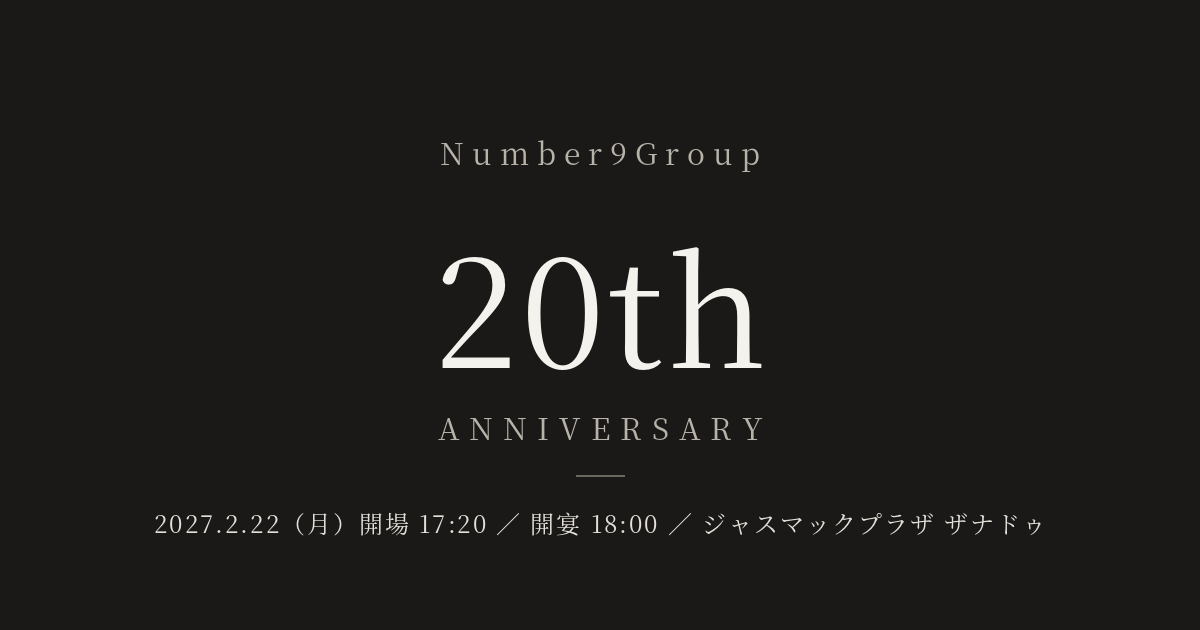
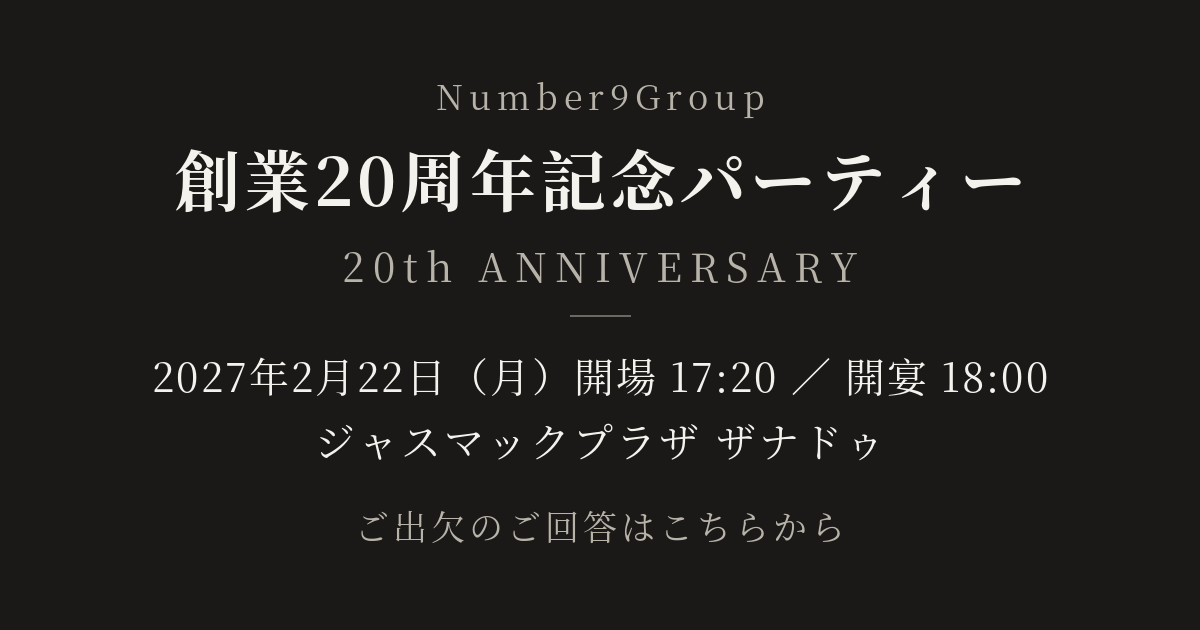
OGP: Japanese title/description, bolder preview image
Claude-Session: https://claude.ai/code/session_01NzNQMEo8tMDqitRg1fmcij

diff --git a/staff/index.html b/staff/index.html
@@ -3,12 +3,12 @@
 <head>
 <meta charset="utf-8">
 <meta name="viewport" content="width=device-width, initial-scale=1, viewport-fit=cover">
-<title>Number9Group 20th Anniversary｜スタッフ出欠回答</title>
-<meta property="og:title" content="Number9Group 20th Anniversary｜スタッフ出欠回答">
-<meta property="og:description" content="2027年2月22日（月）開場17:20・開宴18:00／ジャスマックプラザ ザナドゥ。ご出欠をこちらからご回答ください。">
+<title>Number9Group 創業20周年記念パーティーのご案内</title>
+<meta property="og:title" content="Number9Group 創業20周年記念パーティーのご案内">
+<meta property="og:description" content="2027年2月22日（月）開場17:20・開宴18:00｜ジャスマックプラザ ザナドゥ｜ご出欠のご回答はこちらから（11月11日まで）">
 <meta property="og:type" content="website">
 <meta property="og:url" content="https://meative.github.io/number9-20th/staff/">
-<meta property="og:image" content="https://meative.github.io/number9-20th/og.png">
+<meta property="og:image" content="https://meative.github.io/number9-20th/og.png?v=2">
 <meta name="twitter:card" content="summary_large_image">
 <link rel="preconnect" href="https://fonts.googleapis.com">
 <link rel="preconnect" href="https://fonts.gstatic.com" crossorigin>

diff --git a/index.html b/index.html
@@ -3,12 +3,12 @@
 <head>
 <meta charset="utf-8">
 <meta name="viewport" content="width=device-width, initial-scale=1, viewport-fit=cover">
-<title>Number9Group 20th Anniversary｜出欠回答</title>
-<meta property="og:title" content="Number9Group 20th Anniversary｜出欠回答">
-<meta property="og:description" content="2027年2月22日（月）開場17:20・開宴18:00／ジャスマックプラザ ザナドゥ。ご出欠をこちらからご回答ください。">
+<title>Number9Group 創業20周年記念パーティーのご案内</title>
+<meta property="og:title" content="Number9Group 創業20周年記念パーティーのご案内">
+<meta property="og:description" content="2027年2月22日（月）開場17:20・開宴18:00｜ジャスマックプラザ ザナドゥ｜ご出欠のご回答はこちらから（11月11日まで）">
 <meta property="og:type" content="website">
 <meta property="og:url" content="https://meative.github.io/number9-20th/">
-<meta property="og:image" content="https://meative.github.io/number9-20th/og.png">
+<meta property="og:image" content="https://meative.github.io/number9-20th/og.png?v=2">
 <meta name="twitter:card" content="summary_large_image">
 <link rel="preconnect" href="https://fonts.googleapis.com">
 <link rel="preconnect" href="https://fonts.gstatic.com" crossorigin>
